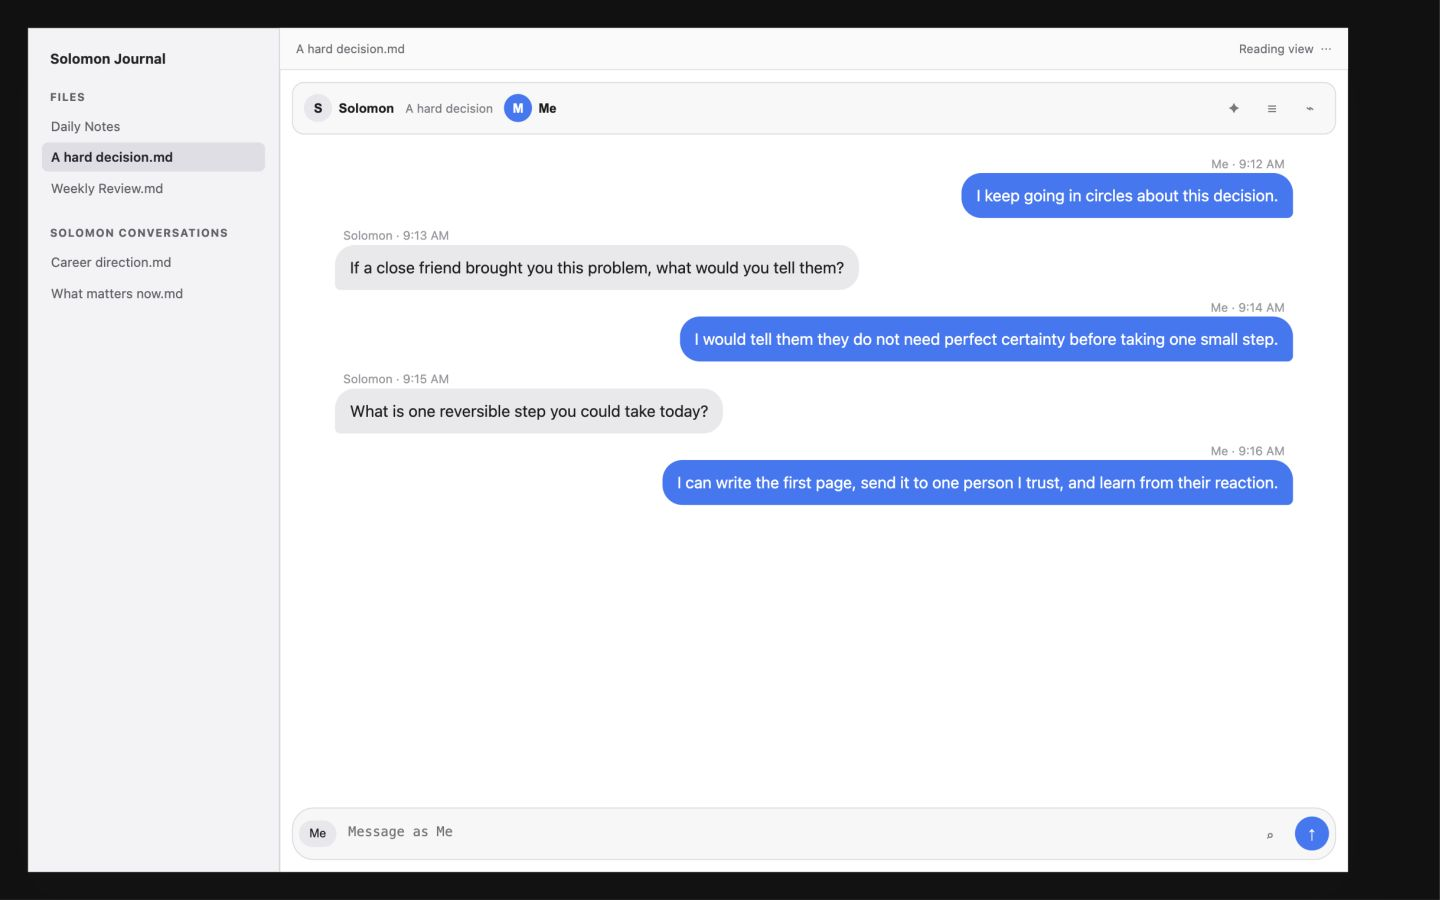
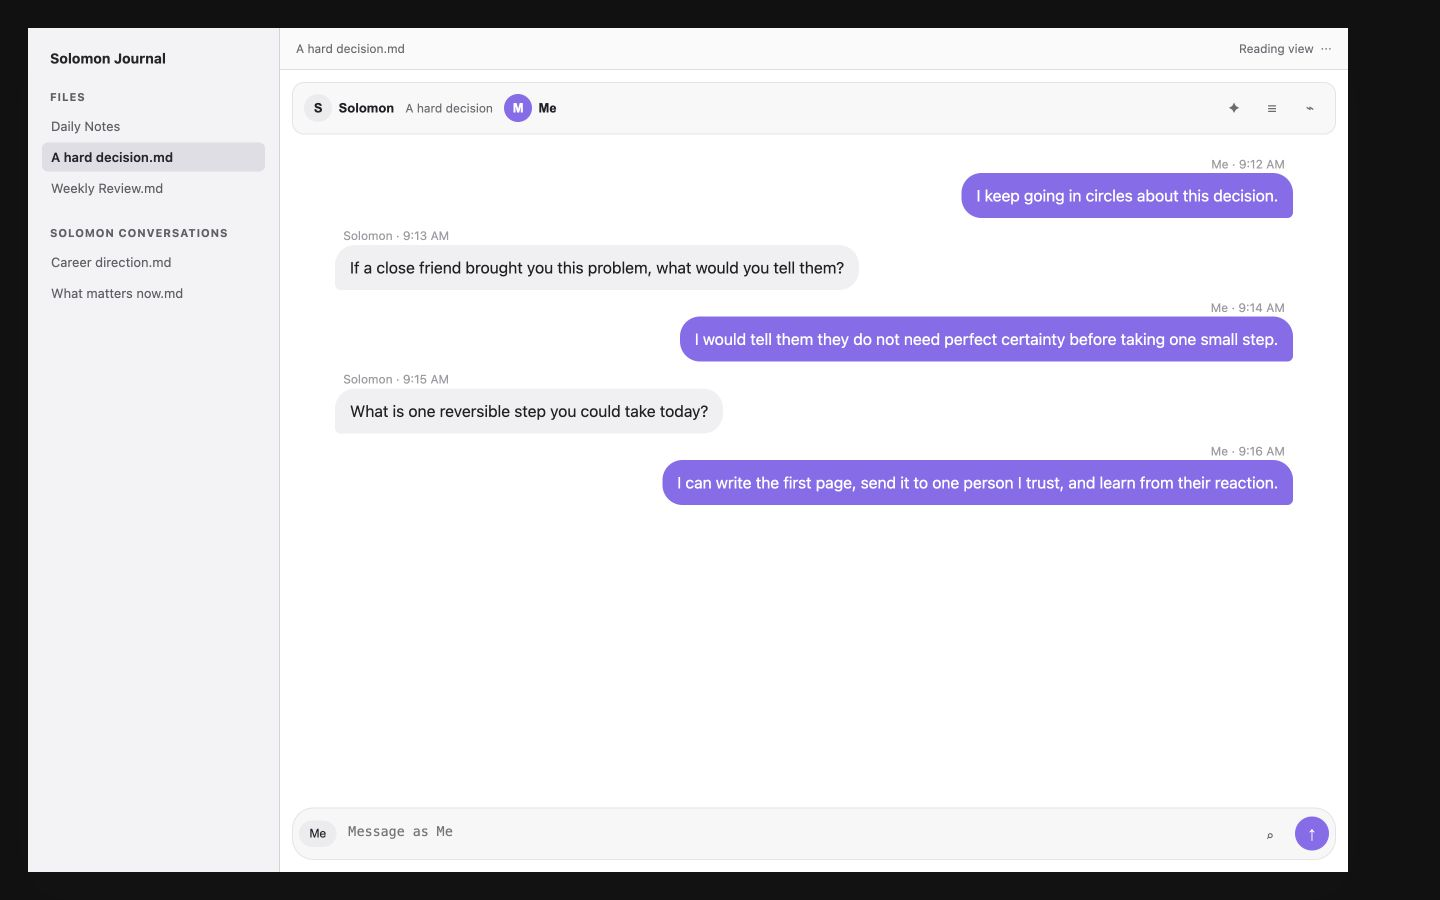
Refine chat UI from design handoff

diff --git a/styles.css b/styles.css
@@ -4,7 +4,7 @@
 .solomon-chat-active .view-content { display: flex; flex-direction: column; min-height: 0; overflow: hidden; }
 
 .solomon-chat-root {
-  --solomon-left-bubble: var(--background-secondary);
+  --solomon-left-bubble: color-mix(in srgb, var(--background-modifier-hover) 75%, var(--background-primary) 25%);
   --solomon-right-bubble: var(--interactive-accent);
   --solomon-left-text: var(--text-normal);
   --solomon-right-text: var(--text-on-accent);
@@ -23,14 +23,14 @@
 
 .solomon-chat-header {
   align-items: center;
-  background: color-mix(in srgb, var(--background-primary-alt) 92%, transparent);
+  background: color-mix(in srgb, var(--background-primary-alt) 62%, var(--background-primary));
   border: 1px solid var(--background-modifier-border);
-  border-radius: var(--radius-l);
+  border-radius: 14px;
   display: flex;
   gap: var(--size-4-2);
   justify-content: space-between;
   min-width: 0;
-  padding: var(--size-4-2);
+  padding: 8px 10px;
   transition: opacity 140ms ease, max-height 140ms ease, padding 140ms ease, border-width 140ms ease;
 }
 
@@ -44,20 +44,23 @@
 }
 .solomon-chat-person img, .solomon-chat-initial {
   align-items: center; background: var(--background-modifier-hover); border-radius: 50%; display: flex; flex: 0 0 28px;
+  box-shadow: inset 0 0 0 1px color-mix(in srgb, var(--text-normal) 7%, transparent);
   height: 28px; justify-content: center; object-fit: cover; width: 28px;
 }
-.solomon-chat-person.is-right .solomon-chat-initial { background: var(--interactive-accent); color: var(--text-on-accent); }
+.solomon-chat-person.is-right .solomon-chat-initial { background: var(--interactive-accent); box-shadow: none; color: var(--text-on-accent); }
 
 .solomon-chat-icon {
   align-items: center; background: transparent; border: 0; border-radius: 50%; box-shadow: none; color: var(--text-muted);
-  display: inline-flex; flex: 0 0 34px; height: 34px; justify-content: center; padding: 0; width: 34px;
+  display: inline-flex; flex: 0 0 32px; height: 32px; justify-content: center; padding: 0; width: 32px;
 }
 .solomon-chat-icon:hover, .solomon-chat-icon:focus-visible { background: var(--background-modifier-hover); color: var(--text-normal); }
+.solomon-chat-icon .svg-icon { height: 16px; stroke-width: 1.7; width: 16px; }
 
 .solomon-chat-messages {
   display: flex; flex-direction: column; gap: var(--size-4-2); min-height: 0; overflow-y: auto; overscroll-behavior: contain;
-  padding: var(--size-4-2) max(var(--size-4-2), 3vw); scroll-behavior: smooth; -webkit-overflow-scrolling: touch;
+  padding: 8px clamp(12px, 3vw, 24px); scrollbar-width: none; scroll-behavior: smooth; -webkit-overflow-scrolling: touch;
 }
+.solomon-chat-messages::-webkit-scrollbar { display: none; }
 .solomon-chat-preamble { align-self: center; background: var(--background-primary-alt); border-radius: var(--radius-m); color: var(--text-muted); max-width: 42rem; padding: 0.7rem 1rem; text-align: center; }
 .solomon-chat-empty { align-items: center; color: var(--text-muted); display: flex; flex: 1; flex-direction: column; justify-content: center; margin: auto; max-width: 29rem; text-align: center; }
 .solomon-chat-empty h3 { color: var(--text-normal); margin-bottom: 0; }
@@ -65,13 +68,13 @@
 .solomon-chat-message { display: flex; flex-direction: column; max-width: 100%; }
 .solomon-chat-message.is-left { align-items: flex-start; }
 .solomon-chat-message.is-right { align-items: flex-end; }
-.solomon-chat-meta { color: var(--text-faint); font-size: var(--font-ui-smaller); padding: 0.15rem 0.5rem; }
+.solomon-chat-meta { color: var(--text-faint); font-size: 0.6875rem; padding: 2px 8px; }
 .solomon-chat-bubble {
-  border-radius: 1.25rem; cursor: default; line-height: 1.45; max-width: min(78%, 44rem); overflow-wrap: anywhere;
-  padding: 0.68rem 0.92rem; user-select: text; -webkit-user-select: text;
+  border-radius: 20px; cursor: default; font-size: 0.875rem; line-height: 1.45; max-width: min(78%, 44rem); overflow-wrap: anywhere;
+  padding: 10px 15px; user-select: text; -webkit-user-select: text;
 }
-.solomon-chat-message.is-left .solomon-chat-bubble { background: var(--solomon-left-bubble); border-bottom-left-radius: 0.35rem; color: var(--solomon-left-text); }
-.solomon-chat-message.is-right .solomon-chat-bubble { background: var(--solomon-right-bubble); border-bottom-right-radius: 0.35rem; color: var(--solomon-right-text); }
+.solomon-chat-message.is-left .solomon-chat-bubble { background: var(--solomon-left-bubble); border-bottom-left-radius: 6px; color: var(--solomon-left-text); }
+.solomon-chat-message.is-right .solomon-chat-bubble { background: var(--solomon-right-bubble); border-bottom-right-radius: 6px; color: var(--solomon-right-text); }
 .solomon-chat-bubble :is(p, ul, ol, blockquote, pre) { margin-block: 0.4rem; }
 .solomon-chat-bubble :first-child { margin-top: 0; }
 .solomon-chat-bubble :last-child { margin-bottom: 0; }
@@ -80,17 +83,35 @@
 .solomon-chat-bubble:focus-visible { outline: 2px solid var(--interactive-accent); outline-offset: 2px; }
 
 .solomon-chat-composer {
-  align-items: flex-end; background: var(--background-primary-alt); border: 1px solid var(--background-modifier-border);
-  border-radius: 1.35rem; display: flex; gap: var(--size-4-2); padding: 0.38rem; position: relative; z-index: 5;
+  align-items: center; background: color-mix(in srgb, var(--background-primary-alt) 62%, var(--background-primary)); border: 1px solid var(--background-modifier-border);
+  border-radius: 22px; box-shadow: inset 0 1px 0 color-mix(in srgb, var(--text-on-accent) 32%, transparent);
+  display: flex; gap: 8px; padding: 5px 6px; position: relative; z-index: 5;
 }
 .solomon-chat-composer textarea {
   background: transparent; border: 0; box-shadow: none; color: var(--text-normal); flex: 1; line-height: 1.45;
-  margin: 0; max-height: 9rem; min-height: 2.4rem; padding: 0.48rem 0.25rem; resize: none;
+  margin: 0; max-height: 9rem; min-height: 34px; padding: 6px 2px; resize: none;
 }
 .solomon-chat-composer textarea:focus { box-shadow: none; outline: none; }
-.solomon-chat-sender { align-self: center; background: var(--background-modifier-hover); border: 0; border-radius: 999px; box-shadow: none; color: var(--text-normal); font-size: var(--font-ui-smaller); max-width: 9rem; overflow: hidden; padding: 0.4rem 0.65rem; text-overflow: ellipsis; white-space: nowrap; }
-.solomon-chat-send { align-items: center; align-self: center; background: var(--interactive-accent); border: 0; border-radius: 50%; color: var(--text-on-accent); display: flex; flex: 0 0 34px; height: 34px; justify-content: center; padding: 0; width: 34px; }
+.solomon-chat-sender { align-self: center; background: var(--background-modifier-hover); border: 0; border-radius: 999px; box-shadow: none; color: var(--text-normal); font-size: 0.75rem; font-weight: 500; max-width: 9rem; overflow: hidden; padding: 6px 12px; text-overflow: ellipsis; white-space: nowrap; }
+.solomon-chat-sender:hover, .solomon-chat-sender:focus-visible { background: color-mix(in srgb, var(--background-modifier-hover) 88%, var(--text-normal) 12%); }
+.solomon-chat-send { align-items: center; align-self: center; background: var(--interactive-accent); border: 0; border-radius: 50%; box-shadow: 0 2px 6px color-mix(in srgb, var(--interactive-accent) 30%, transparent); color: var(--text-on-accent); display: flex; flex: 0 0 34px; height: 34px; justify-content: center; padding: 0; transition: transform 140ms ease, box-shadow 140ms ease, opacity 140ms ease; width: 34px; }
+.solomon-chat-send .svg-icon { height: 16px; stroke-width: 2.2; width: 16px; }
+.solomon-chat-send:not(:disabled):hover { box-shadow: 0 4px 10px color-mix(in srgb, var(--interactive-accent) 38%, transparent); transform: translateY(-1px); }
+.solomon-chat-send:not(:disabled):active { box-shadow: 0 1px 3px color-mix(in srgb, var(--interactive-accent) 28%, transparent); transform: scale(0.94); }
 .solomon-chat-send:disabled { opacity: 0.4; }
+
+@keyframes solomon-bubble-enter {
+  from { opacity: 0; transform: translateY(24px) scale(0.85); }
+  to { opacity: 1; transform: translateY(0) scale(1); }
+}
+@keyframes solomon-meta-enter {
+  from { opacity: 0; }
+  to { opacity: 1; }
+}
+.solomon-chat-message.is-entering .solomon-chat-bubble { animation: solomon-bubble-enter 260ms cubic-bezier(0.2, 0.9, 0.3, 1.2) both; }
+.solomon-chat-message.is-entering.is-left .solomon-chat-bubble { transform-origin: bottom left; }
+.solomon-chat-message.is-entering.is-right .solomon-chat-bubble { transform-origin: bottom right; }
+.solomon-chat-message.is-entering .solomon-chat-meta { animation: solomon-meta-enter 150ms ease 80ms both; }
 
 @media (max-width: 700px) {
   .solomon-chat-root { gap: var(--size-4-2); padding: var(--size-4-2); padding-bottom: calc(var(--size-4-2) + var(--solomon-bottom-clearance)); }
@@ -98,15 +119,17 @@
   .solomon-chat-people { justify-content: space-between; }
   .solomon-chat-title { flex: 1; text-align: center; }
   .solomon-chat-actions { justify-content: center; }
-  .solomon-chat-messages { padding: var(--size-4-1); }
-  .solomon-chat-bubble { max-width: 88%; }
+  .solomon-chat-messages { padding: 6px 4px; }
+  .solomon-chat-bubble { font-size: 0.9375rem; line-height: 1.4; max-width: 88%; padding: 10px 14px; }
   .solomon-chat-composer { gap: var(--size-4-1); }
-  .solomon-chat-sender { max-width: 6.5rem; }
+  .solomon-chat-sender { max-width: 6.5rem; padding: 7px 12px; }
+  .solomon-chat-composer { margin-inline: 2px; }
   .solomon-chat-root.is-compose-mode { grid-template-rows: 0 minmax(0, 1fr) auto; gap: var(--size-4-1); }
   .solomon-chat-root.is-compose-mode .solomon-chat-header { border-width: 0; max-height: 0; opacity: 0; overflow: hidden; padding-block: 0; pointer-events: none; }
   .solomon-chat-root.is-keyboard-open { transition: none; }
 }
 
 @media (prefers-reduced-motion: reduce) {
-  .solomon-chat-root, .solomon-chat-header, .solomon-chat-messages { scroll-behavior: auto; transition: none; }
+  .solomon-chat-root, .solomon-chat-header, .solomon-chat-messages, .solomon-chat-send { scroll-behavior: auto; transition: none; }
+  .solomon-chat-message.is-entering .solomon-chat-bubble, .solomon-chat-message.is-entering .solomon-chat-meta { animation: none; }
 }

diff --git a/main.js b/main.js
@@ -47,7 +47,7 @@ var DEFAULT_SETTINGS = {
   conversationFolder: "Solomon Conversations",
   useThemeColors: true,
   leftBubbleColor: "#e9e9eb",
-  rightBubbleColor: "#3478f6",
+  rightBubbleColor: "#8b6cef",
   leftTextColor: "#1c1c1e",
   rightTextColor: "#ffffff",
   showTimestamps: true,
@@ -379,7 +379,7 @@ var SolomonChatPlugin = class extends import_obsidian3.Plugin {
     const host = leaf.view.containerEl.querySelector(".view-content") || leaf.view.contentEl;
     const root = host.createDiv({ cls: "solomon-chat-root" });
     const header = root.createDiv({ cls: "solomon-chat-header" });
-    const messages = root.createDiv({ cls: "solomon-chat-messages" });
+    const messages = root.createDiv({ cls: "solomon-chat-messages", attr: { role: "log", "aria-live": "polite", "aria-relevant": "additions" } });
     const composer = root.createDiv({ cls: "solomon-chat-composer" });
     const sender = composer.createEl("button", { cls: "solomon-chat-sender" });
     sender.type = "button";
@@ -448,7 +448,10 @@ var SolomonChatPlugin = class extends import_obsidian3.Plugin {
       void import_obsidian3.MarkdownRenderer.render(this.app, conversation.preamble, preamble, file.path, state.component);
     }
     if (!conversation.messages.length) this.renderEmptyState(state);
-    for (let index = 0; index < conversation.messages.length; index++) this.renderMessage(state, index);
+    for (let index = 0; index < conversation.messages.length; index++) {
+      const animate = !firstRender && conversation.messages.length > oldCount && index >= oldCount;
+      this.renderMessage(state, index, animate);
+    }
     state.lastMessageCount = conversation.messages.length;
     state.textarea.value = state.draft;
     state.send.disabled = state.sending || !state.draft.trim();
@@ -495,9 +498,9 @@ var SolomonChatPlugin = class extends import_obsidian3.Plugin {
     const prompt = empty.createEl("button", { text: "Use a perspective prompt" });
     prompt.addEventListener("click", () => this.openPromptMenu(state));
   }
-  renderMessage(state, index) {
+  renderMessage(state, index, animate = false) {
     const message = state.conversation.messages[index];
-    const wrapper = state.messages.createDiv({ cls: `solomon-chat-message is-${message.side}` });
+    const wrapper = state.messages.createDiv({ cls: `solomon-chat-message is-${message.side}${animate ? " is-entering" : ""}` });
     const name = message.side === "left" ? state.conversation.leftName : state.conversation.rightName;
     if (this.settings.showTimestamps) wrapper.createDiv({ cls: "solomon-chat-meta", text: message.timestamp ? `${name} \xB7 ${this.formatTimestamp(message.timestamp)}` : name });
     const bubble = wrapper.createDiv({ cls: "solomon-chat-bubble", attr: { tabindex: "0" } });

diff --git a/src/plugin.ts b/src/plugin.ts
@@ -114,7 +114,7 @@ export default class SolomonChatPlugin extends Plugin {
     const host = leaf.view.containerEl.querySelector<HTMLElement>(".view-content") || leaf.view.contentEl;
     const root = host.createDiv({ cls: "solomon-chat-root" });
     const header = root.createDiv({ cls: "solomon-chat-header" });
-    const messages = root.createDiv({ cls: "solomon-chat-messages" });
+    const messages = root.createDiv({ cls: "solomon-chat-messages", attr: { role: "log", "aria-live": "polite", "aria-relevant": "additions" } });
     const composer = root.createDiv({ cls: "solomon-chat-composer" });
     const sender = composer.createEl("button", { cls: "solomon-chat-sender" }); sender.type = "button";
     const textarea = composer.createEl("textarea", { attr: { rows: "1", enterkeyhint: "send", autocapitalize: "sentences", placeholder: "Write a message…" } });
@@ -160,7 +160,10 @@ export default class SolomonChatPlugin extends Plugin {
       void MarkdownRenderer.render(this.app, conversation.preamble, preamble, file.path, state.component);
     }
     if (!conversation.messages.length) this.renderEmptyState(state);
-    for (let index = 0; index < conversation.messages.length; index++) this.renderMessage(state, index);
+    for (let index = 0; index < conversation.messages.length; index++) {
+      const animate = !firstRender && conversation.messages.length > oldCount && index >= oldCount;
+      this.renderMessage(state, index, animate);
+    }
     state.lastMessageCount = conversation.messages.length;
     state.textarea.value = state.draft;
     state.send.disabled = state.sending || !state.draft.trim();
@@ -211,9 +214,9 @@ export default class SolomonChatPlugin extends Plugin {
     prompt.addEventListener("click", () => this.openPromptMenu(state));
   }
 
-  private renderMessage(state: ViewState, index: number): void {
+  private renderMessage(state: ViewState, index: number, animate = false): void {
     const message = state.conversation.messages[index];
-    const wrapper = state.messages.createDiv({ cls: `solomon-chat-message is-${message.side}` });
+    const wrapper = state.messages.createDiv({ cls: `solomon-chat-message is-${message.side}${animate ? " is-entering" : ""}` });
     const name = message.side === "left" ? state.conversation.leftName : state.conversation.rightName;
     if (this.settings.showTimestamps) wrapper.createDiv({ cls: "solomon-chat-meta", text: message.timestamp ? `${name} · ${this.formatTimestamp(message.timestamp)}` : name });
     const bubble = wrapper.createDiv({ cls: "solomon-chat-bubble", attr: { tabindex: "0" } });

diff --git a/tests/mobile-harness.html b/tests/mobile-harness.html
@@ -4,9 +4,9 @@
   <meta charset="utf-8">
   <meta name="viewport" content="width=device-width,initial-scale=1,viewport-fit=cover">
   <title>Solomon Chat mobile layout harness</title>
-  <link rel="stylesheet" href="../styles.css">
+  <link rel="stylesheet" href="../styles.css?v=2">
   <style>
-    :root { --background-primary:#fff; --background-primary-alt:#f7f7f8; --background-secondary:#e9e9eb; --background-modifier-border:#dadade; --background-modifier-hover:#e8e8ec; --interactive-accent:#3478f6; --text-normal:#1c1c1e; --text-muted:#77777d; --text-faint:#97979d; --text-on-accent:#fff; --size-4-1:4px; --size-4-2:8px; --size-4-3:12px; --radius-l:12px; --radius-m:8px; --font-ui-smaller:12px; --font-ui-small:13px; }
+    :root { --background-primary:#fff; --background-primary-alt:#f7f7f8; --background-secondary:#f0f0f2; --background-modifier-border:#e4e4e7; --background-modifier-hover:#ececef; --interactive-accent:#8b6cef; --text-normal:#1f2023; --text-muted:#6b6b70; --text-faint:#9a9aa0; --text-on-accent:#fff; --size-4-1:4px; --size-4-2:8px; --size-4-3:12px; --radius-l:12px; --radius-m:8px; --font-ui-smaller:12px; --font-ui-small:13px; }
     * { box-sizing:border-box; }
     body { background:#dddde2; font-family:-apple-system,BlinkMacSystemFont,"Segoe UI",sans-serif; margin:0; }
     .harness { display:grid; grid-template-rows:auto 1fr; height:100vh; }
@@ -42,6 +42,13 @@
     body.is-phone-capture .harness { height:calc(100vh - 44px); }
     body.is-phone-capture .workspace { border:8px solid #1d1d20; border-radius:34px; box-shadow:0 18px 45px #17171a40; max-width:406px; }
     body.is-phone-capture .phone { border-radius:25px; }
+    body.theme-dark { --background-primary:#1e1e1e; --background-primary-alt:#242426; --background-secondary:#2f2f33; --background-modifier-border:#3a3a3e; --background-modifier-hover:#333336; --interactive-accent:#8b6cef; --text-normal:#dcdcde; --text-muted:#9d9da3; --text-faint:#6d6d73; --text-on-accent:#fff; background:#111; }
+    body.theme-dark .desktop-sidebar { background:#262626; border-color:#383838; color:#a5a5ab; }
+    body.theme-dark .desktop-sidebar strong, body.theme-dark .desktop-sidebar .is-active { color:#e6e6e8; }
+    body.theme-dark .desktop-sidebar .is-active { background:#333336; }
+    body.theme-dark .desktop-titlebar { background:#1e1e1e; border-color:#303032; color:#9d9da3; }
+    body.theme-dark .keyboard { background:linear-gradient(#2f3033,#252629); }
+    body.theme-dark .key { background:#55565a; color:#fff; }
     @media (prefers-color-scheme:dark) { body { background:#111; } }
   </style>
 </head>

diff --git a/tests/mobile-harness.ts b/tests/mobile-harness.ts
@@ -4,6 +4,7 @@ const query = new URLSearchParams(location.search);
 const android = query.get("device") === "android";
 const desktop = query.get("device") === "desktop";
 const capture = query.get("capture") === "1";
+const dark = query.get("theme") === "dark";
 const keyboardHeight = android ? 355 : 334;
 const deviceHeight = android ? 915 : 844;
 const toolbarHeight = android ? 56 : 54;
@@ -16,6 +17,7 @@ const metrics = document.querySelector<HTMLElement>("#metrics")!;
 document.body.classList.toggle("is-capture", capture);
 document.body.classList.toggle("is-desktop", desktop);
 document.body.classList.toggle("is-phone-capture", capture && !desktop);
+document.body.classList.toggle("theme-dark", dark);
 document.querySelector<HTMLElement>("#device-label")!.textContent = desktop ? "Desktop" : android ? "Pixel 9" : "iPhone 15";
 let open = query.get("keyboard") === "open";
 

diff --git a/src/constants.ts b/src/constants.ts
@@ -32,7 +32,7 @@ export const DEFAULT_SETTINGS: SolomonSettings = {
   conversationFolder: "Solomon Conversations",
   useThemeColors: true,
   leftBubbleColor: "#e9e9eb",
-  rightBubbleColor: "#3478f6",
+  rightBubbleColor: "#8b6cef",
   leftTextColor: "#1c1c1e",
   rightTextColor: "#ffffff",
   showTimestamps: true,
